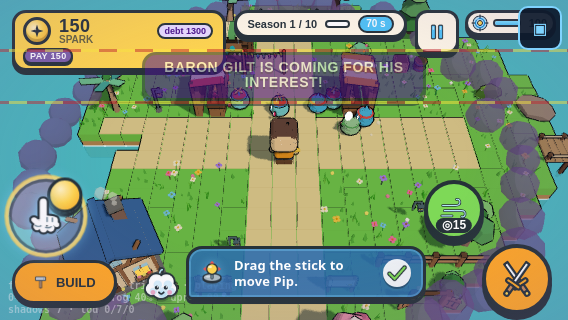
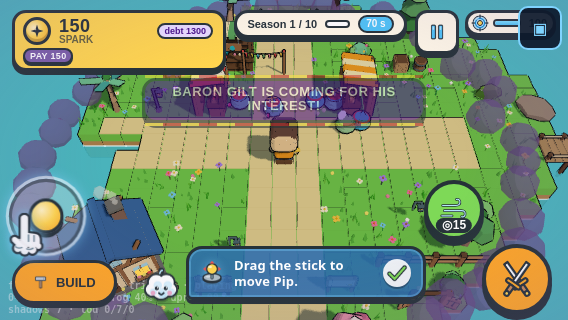
WIP ?: S79-F2b: detail bar replaces tabs/grid/foot on phones (tray no longer cut or over Spark pill)

diff --git a/LUMEN/game/ui/build.css b/LUMEN/game/ui/build.css
@@ -157,7 +157,19 @@ body.is-touch .ll-build-demolishing .ll-btn { min-height: 40px; }
   body.is-touch .ll-build.has-detail .ll-build-grid { max-height: 0; overflow: hidden; margin: 0; }
   /* with a card selected the detail bar already has Deploy / Upgrade / Sell, so the foot (hint + upgrade/demolish) is hidden: it was what pushed the tray up over the Spark pill */
   body.is-touch .ll-build.has-detail .ll-build-foot { display: none; }
+  body.is-touch .ll-build.has-detail .ll-build-tabs { display: none; }   /* the X in the detail bar returns to the tabs + cards */
+  body.is-touch .ll-build.has-detail .ll-det-info small { display: none; }
   body.is-touch .ll-build-detail { margin-top: 3px; padding: 3px 5px; gap: 4px; }
   body.is-touch .ll-build-detail .ll-btn { min-height: 40px; padding: 3px 8px; font-size: 11px; }
+  body.is-touch .ll-build-detail .ll-btn.pm { min-width: 40px; }
+}
+
+/* S79-F2b: 341-420 px tall phones (844x390): with a card selected the tray was 362 px tall and its top sat at y=-38 (cut off). Same rule as the 568x320 block: the detail bar replaces tabs, grid and foot until the X is tapped. */
+@media (max-height: 420px) and (min-height: 341px) {
+  body.is-touch .ll-build.has-detail .ll-build-tabs, body.is-touch .ll-build.has-detail .ll-build-foot { display: none; }
+  body.is-touch .ll-build.has-detail .ll-build-grid { max-height: 0; overflow: hidden; margin: 0; }
+  body.is-touch .ll-build.has-detail .ll-det-info small { display: none; }
+  body.is-touch .ll-build-detail { margin-top: 3px; }
+  body.is-touch .ll-build-detail .ll-btn { min-height: 40px; }
   body.is-touch .ll-build-detail .ll-btn.pm { min-width: 40px; }
 }
